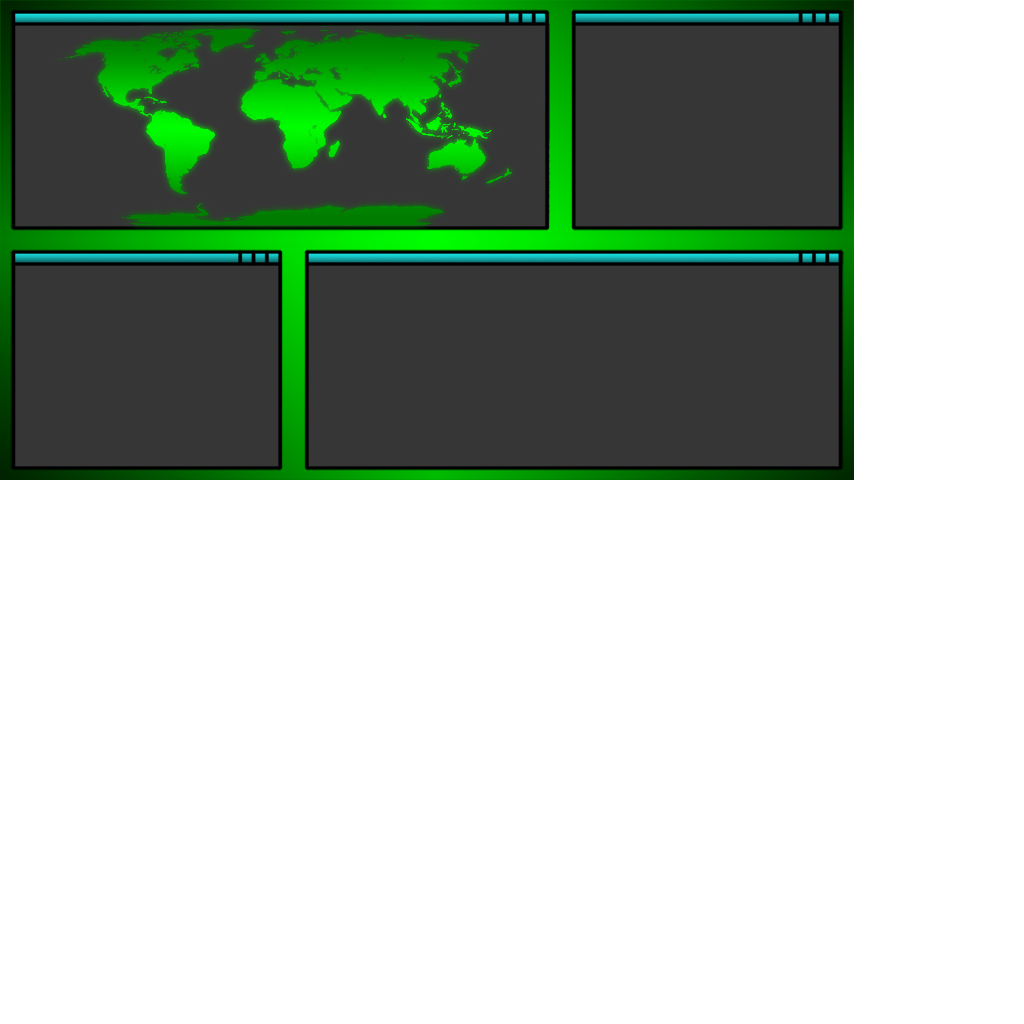
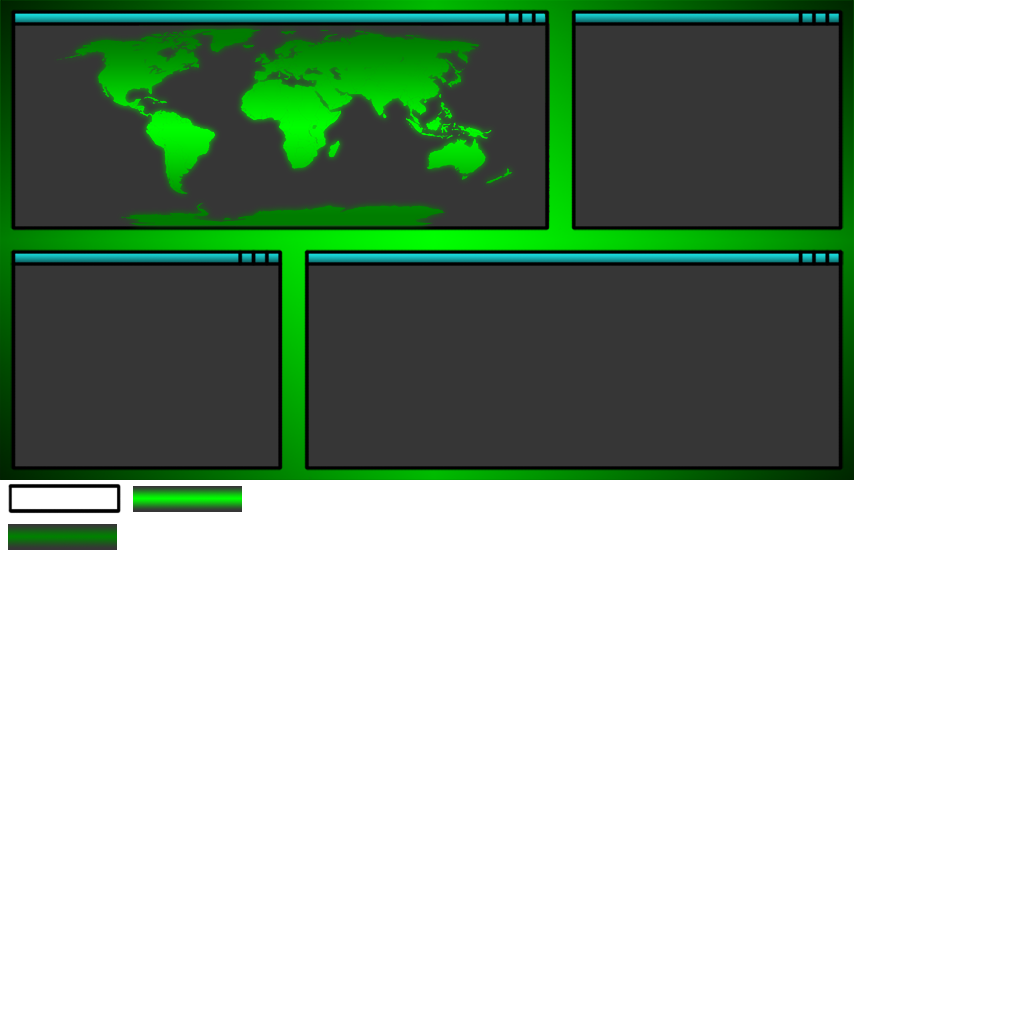
Partial Commit. Implemented some bars for the meters in transition. Not drawing at the correct position at the moment, nor scaling. Also, fixed a spelling mistake Matt made.

Changed region(s): [[0.0, 0.4688, 0.25, 0.5625]]

diff --git a/vergegl/src/com/dbz/verge/Mode.java b/vergegl/src/com/dbz/verge/Mode.java
@@ -432,6 +432,12 @@ public abstract class Mode extends Screen {
 		// Draws background.
 		batcher.beginBatch(AssetsManager.transition);
 		batcher.drawSprite(0, 0, 854, 480, AssetsManager.transitionBackgroundRegion);
+//		batcher.endBatch();
+		
+		// Draws 'Meters' window content.
+		batcher.drawSprite(158, 425, 109, 26, AssetsManager.meterBarEmptyRegion);
+		batcher.drawSprite(158, 425, 75, 26, AssetsManager.meterBarFillRegion); // Full size is 109
+		batcher.drawSprite(156, 422, 113, 31, AssetsManager.meterBarOutlineRegion);
 		batcher.endBatch();
 		
 		// Draws Ready Message.
@@ -509,6 +515,11 @@ public abstract class Mode extends Screen {
 	}
 	
 	public void presentWon() {
+		// Draws background.
+		batcher.beginBatch(AssetsManager.transition);
+		batcher.drawSprite(0, 0, 854, 480, AssetsManager.transitionBackgroundRegion);
+		batcher.endBatch();
+		
 		// Draws the win message.
 		batcher.beginBatch(AssetsManager.vergeFontTexture);
 		AssetsManager.vergeFont.drawTextCentered(batcher, "A Winner is You!", 640, 500, 1.5f);
@@ -529,6 +540,11 @@ public abstract class Mode extends Screen {
 	}
 	
 	public void presentLost() {
+		// Draws background.
+		batcher.beginBatch(AssetsManager.transition);
+		batcher.drawSprite(0, 0, 854, 480, AssetsManager.transitionBackgroundRegion);
+		batcher.endBatch();
+		
 		// Draws the lose message.	
 		batcher.beginBatch(AssetsManager.vergeFontTexture);
 		AssetsManager.vergeFont.drawTextCentered(batcher, "You Lost The Game!", 640, 500, 1.5f);

diff --git a/vergegl/src/com/dbz/verge/AssetsManager.java b/vergegl/src/com/dbz/verge/AssetsManager.java
@@ -46,6 +46,9 @@ public class AssetsManager {
     
     public static Texture transition;
     public static TextureRegion transitionBackgroundRegion;
+    public static TextureRegion meterBarOutlineRegion;
+    public static TextureRegion meterBarEmptyRegion;
+    public static TextureRegion meterBarFillRegion;
     
     public static Texture gameGrid;
     public static TextureRegion gameGridBackgroundRegion;
@@ -134,6 +137,9 @@ public class AssetsManager {
         
         transition = new Texture("transition.png");
         transitionBackgroundRegion = new TextureRegion(transition, 0, 0, 854, 480);
+        meterBarOutlineRegion = new TextureRegion(transition, 8, 483, 113, 31);
+        meterBarEmptyRegion = new TextureRegion(transition, 8, 524, 109, 26);
+        meterBarFillRegion = new TextureRegion(transition, 133, 486, 109, 26);
         
         gameGrid = new Texture("gamegrid.png");
         gameGridBackgroundRegion = new TextureRegion(gameGrid, 0, 0, 1280, 800);

diff --git a/vergegl/src/com/dbz/verge/menus/HighScoreScreen.java b/vergegl/src/com/dbz/verge/menus/HighScoreScreen.java
@@ -78,9 +78,9 @@ public class HighScoreScreen extends Menu {
 
 	public void drawObjects() {
 
-		//prints out the high scores for surival and time attack;
+		//prints out the high scores for survival and time attack;
 		batcher.beginBatch(AssetsManager.vergeFontTexture);
-		AssetsManager.vergeFont.drawTextLeft(batcher, "Surival High Scores", 180, 550);
+		AssetsManager.vergeFont.drawTextLeft(batcher, "Survival High Scores", 180, 550);
 		loadCurrentHighScores(game.getFileIO());
 		for(int i=0;i<5;i++)
 		{
